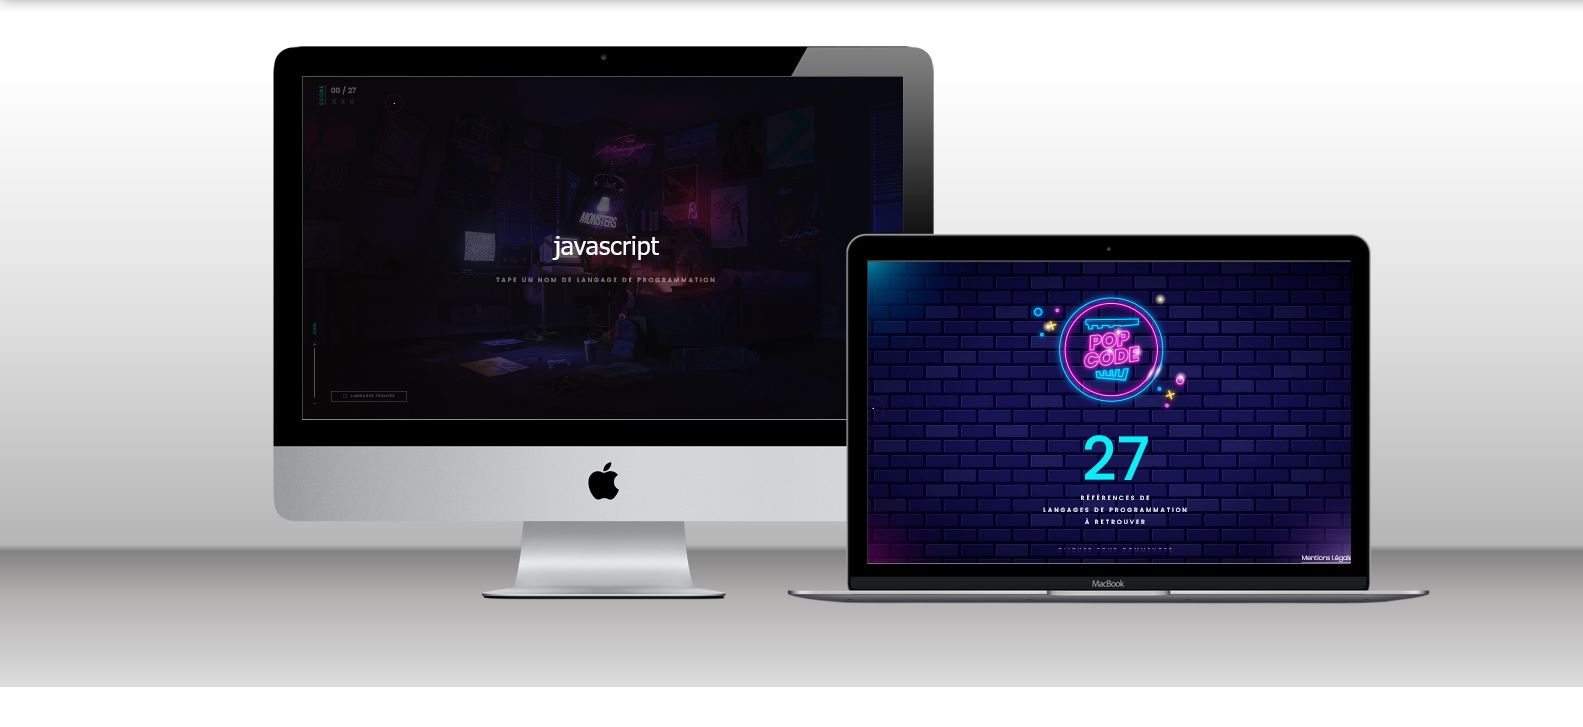
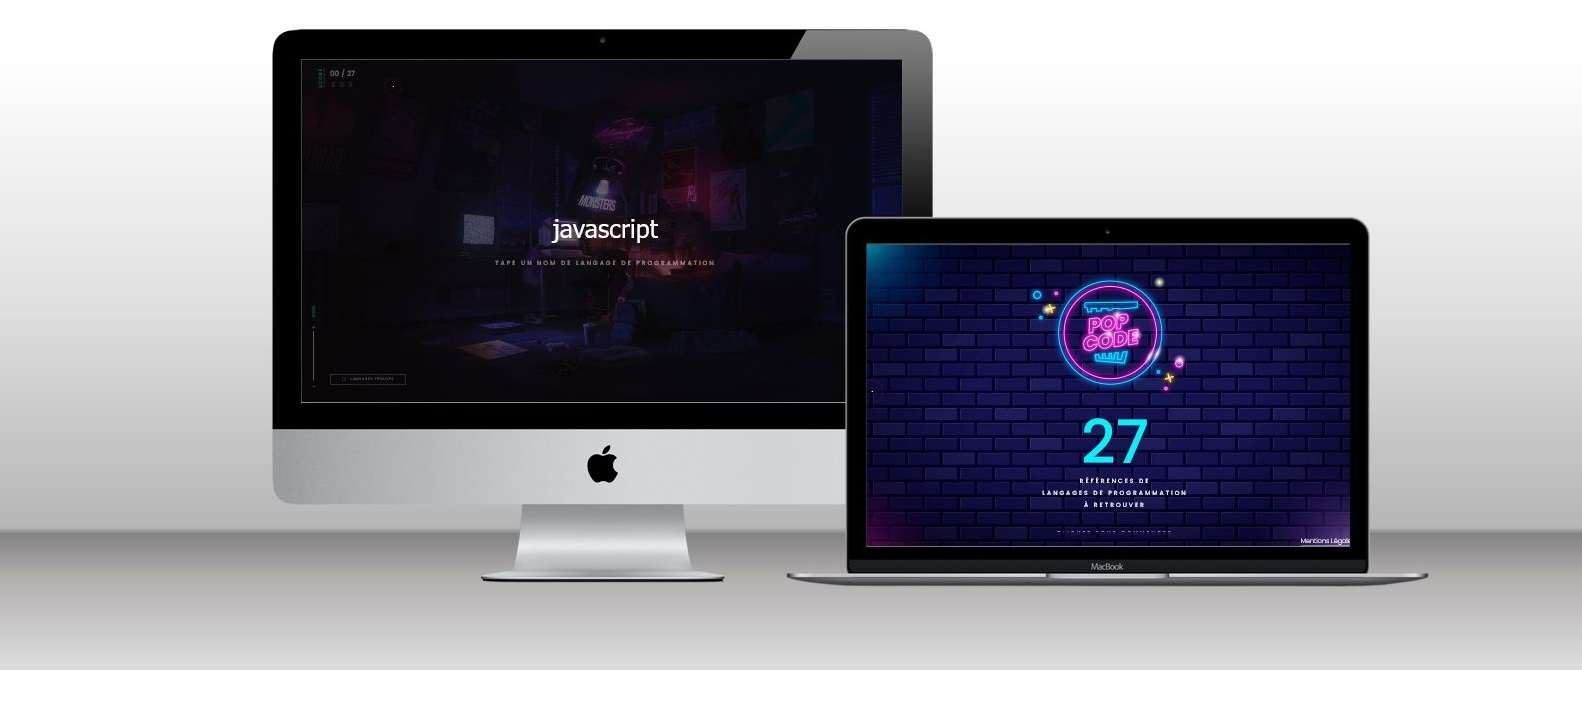
presque fini carousel

diff --git a/assets/css/style.css b/assets/css/style.css
@@ -135,15 +135,15 @@ h1{font-size: 5.625rem;font-weight: 400; color: #ffff;}
 /*********************** projet creatives ********************************************/
 #listeProjets{width: 100%;height:100vh;display: flex;justify-content: center;}
  /* Container stylings: -> centers the whole content of the page -> defines width and height for container */
-.container {display: flex; flex-direction: column;justify-content: center;align-items: center; margin: auto;width: 80vw;height: 100vh;}
+.container {display: flex; flex-direction: column;align-items: center; margin: auto;width: 80vw;height: 100vh;}
 /* End of container stylings *//* Provides padding to main heading */
-/* .main-heading {padding: 2rem 0 2rem 0;} */
+.main-heading {padding: 2rem 0 2rem 0;}
 .content {position: relative;}
 /* Carousel content stylings *//* Places the carousel content on center of the carousel */
 .carousel-content {position: absolute;top: -30%;left: 50%;transform: translate(-50%, -50%);text-align: center;z-index: 50;}
   /* To center the content horizontally  and vertically */
 .carousel-heading {margin-bottom: 1rem;width: 100%;color: black;font-size: 5.5rem;text-align: center;font-family: 'Rubik';
-  font-weight: 900;margin-top: 30px;letter-spacing: 20px;text-align: center;margin-top: -40px;}
+  font-weight: 900;letter-spacing: 20px;text-align: center;}
 /* End of carousel content stylings *//* Slideshow stylings */
 .slideshow {height: 100%;overflow: hidden;position: relative;}
   /* To hide slides in x-direction *//* Wrapper which wraps all the  slideshow images stylings */
@@ -171,24 +171,16 @@ h1{font-size: 5.625rem;font-weight: 400; color: #ffff;}
   90% {left: 0%;}}
 /* End of slideshow stylings *//* Carousel control buttons stylings */
 .slide-btn { width: 100%; background-color:#AEE68A; border-radius: 50%;border: .2rem solid  #6CC431;
-  width: 1.2rem;height: 1.2rem;outline: none;cursor: pointer;margin-top: 20px;margin-left: 20px;margin-left: -125px; position: absolute;transform: translateX(-50%);z-index: 70;}
+  width: 1.2rem;height: 1.2rem;outline: none;cursor: pointer;margin-top: 20px;margin-left: -125px; position: absolute;transform: translateX(-50%);z-index: 70;}
   /* Stylings for positioning the buttons at the bottom of the carousel */
  /* As we provide position as absolute,the buttons places one over the other.So, we have to place them individuallyat their correct positions. */
-.slide-btn-1 {left: 45%;}
-.slide-btn-2 {left: 50%;}
-.slide-btn-3 {left: 55%;}
-.slide-btn-4 {left: 60%;}
-.slide-btn-5 {left: 65%;}
-.slide-btn-6 {left: 70%;}
-.slide-btn-7 {left: 75%;}
+.slide-btn-1 {left: 45%;}.slide-btn-2 {left: 50%;}.slide-btn-3 {left: 55%;}.slide-btn-4 {left: 60%;}
+.slide-btn-5 {left: 65%;}.slide-btn-6 {left: 70%;}.slide-btn-7 {left: 75%;}
 /* .boxSlide-btn{height: 15vh; width: 100%;display: flex;justify-content: center;} */
 /* When we focus on the particular button,the animation stops to that particular image to which the button is associated. */
-.slide-btn-1:focus~.slideshow-wrapper {animation: none;left: 0;}
-.slide-btn-2:focus~.slideshow-wrapper {animation: none;left: -100%;}
-.slide-btn-3:focus~.slideshow-wrapper {animation: none; left:-200%;}
-.slide-btn-4:focus~.slideshow-wrapper {animation: none;left: -300%;}
-.slide-btn-5:focus~.slideshow-wrapper {animation: none;left: -400%;}
-.slide-btn-6:focus~.slideshow-wrapper {animation: none;left: -500%;}
+.slide-btn-1:focus~.slideshow-wrapper {animation: none;left: 0;}.slide-btn-2:focus~.slideshow-wrapper {animation: none;left: -100%;}
+.slide-btn-3:focus~.slideshow-wrapper {animation: none; left:-200%;}.slide-btn-4:focus~.slideshow-wrapper {animation: none;left: -300%;}
+.slide-btn-5:focus~.slideshow-wrapper {animation: none;left: -400%;}.slide-btn-6:focus~.slideshow-wrapper {animation: none;left: -500%;}
 /* When we focus on the button, the background color changes */
 .slide-btn:focus {background-color: #6CC431;}
 /* End of carousel control buttons stylings */

diff --git a/index.html b/index.html
@@ -175,7 +175,7 @@
 
         <section id="listeProjets">
             <div class="container">
-                <!-- <h1 class="main-heading"></h1> -->
+                <h1 class="main-heading"></h1>
                     <div class="content">
                     <!-- The content which is placed at the center of the carousel -->
                     <div class="carousel-content">
@@ -188,10 +188,10 @@
                         <!-- carousel wrapper which contains all images -->
                         <div class="slideshow-wrapper">
                             <div class="slide">
-                                <img class="slide-img" src= "./assets/img/creativesScreen.jpg">
+                                <img class="slide-img" src= "./assets/img/">
                             </div>
                             <div class="slide">
-                                <img class="slide-img" src= "./assets/img/wireframe.jpg">
+                                <img class="slide-img" src= "./assets/img/maquetteScreen1.png">
                             </div>
                             <div class="slide">
                                 <img class="slide-img" src= "./assets/img/capgemenScreen.jpg">
